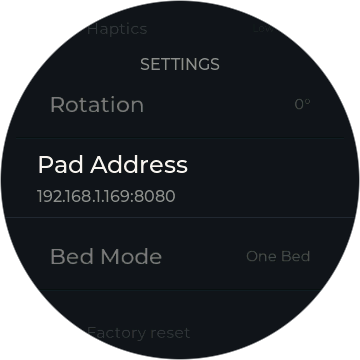
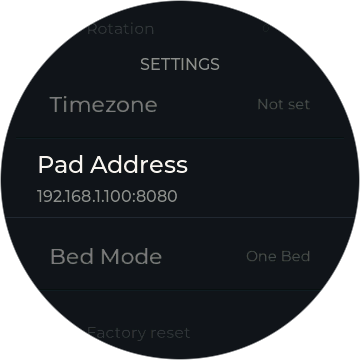
rename: simulator SoftAP name, regenerated portal screen, NAMING status
Claude-Session: https://claude.ai/code/session_01JfBkoxWEwmTAoTqgMFPhs1

diff --git a/simulator/main.c b/simulator/main.c
@@ -243,10 +243,10 @@ static void scenario_wifi_portal(void)
     app_state_t *st = sim_state_ptr();
     st->phase = PH_WIFI_PORTAL;
     // Same format as the real construction site (dial_wifi.c's
-    // "SomnusDial-%02X%02X", MAC-derived) -- kept as a literal here since the
+    // "Bedknob-%02X%02X", MAC-derived) -- kept as a literal here since the
     // simulator never links the real dial_net component (no ESP-IDF Wi-Fi
     // driver on the host), same reasoning as stubs.c's dial_net_ap_ssid().
-    snprintf(st->ap_ssid, sizeof(st->ap_ssid), "SomnusDial-A1B2");
+    snprintf(st->ap_ssid, sizeof(st->ap_ssid), "Bedknob-A1B2");
     ui_router_go(SCR_WIFI_PORTAL, NULL, LV_SCR_LOAD_ANIM_NONE);
     pump_ms(300);
     snapshot("wifi-portal");
@@ -331,7 +331,8 @@ static void scenario_dial_update(void)
 }
 
 // The Home face in RELATIVE scale. Deliberately a POSITIVE, OFF-GRID setpoint:
-// 300dc (30.0°C), which is level +2 (its anchor is 306dc/30.6°C) — so the
+// 300dc (30.0°C), which is level +3 (1.0°C per level, level 0 = 27.0°C,
+// commit 018d8f6) — so the
 // render proves the spliced '+' glyph draws AND that an off-grid device
 // value shows as the nearest level. Water below the setpoint keeps the
 // heating overlay + pill on screen, and the neutral notch/"LEVEL" suffix
@@ -344,7 +345,7 @@ static void scenario_dial_relative(void)
     st->ui_zone = ZONE_A;
     zone_state_t *a = &st->zones[ZONE_A];
     a->on = true;
-    a->temp_dc = 300;     // 30.0C, off-grid -> level +2
+    a->temp_dc = 300;     // 30.0C -> level +3
     a->actual_c = 26.0f;  // -> 79F, below setpoint: still warming
     st->generation++;     // direct field-sets don't bump it; make on_state re-run
     ui_router_go(SCR_DIAL, (void *)(uintptr_t)ZONE_A, LV_SCR_LOAD_ANIM_NONE);

diff --git a/simulator/stubs.c b/simulator/stubs.c
@@ -18,8 +18,16 @@
 #include "dial_power.h"
 #include "dial_display.h"
 #include "dial_wifi.h"
+#include "dial_time.h"
 #include "esp_wifi.h"
 #include "esp_app_desc.h"
+
+/* ---- dial_time ---------------------------------------------------------- */
+// Settings' Timezone row and the picker read these; the simulator has no
+// SNTP and no persisted zone, so it renders the honest "Not set" state.
+bool dial_time_get_iana_tz(char *out, size_t sz) { (void)out; (void)sz; return false; }
+bool dial_time_get_posix_tz(char *out, size_t sz) { (void)out; (void)sz; return false; }
+bool dial_time_set_iana_tz(const char *iana) { (void)iana; return true; }
 
 /* ---- dial_haptics ------------------------------------------------------ */
 
@@ -107,7 +115,7 @@ void dial_net_forget(void) {}
 void dial_net_request_setup(void) {}
 bool dial_net_setup_requested(void) { return false; }
 void dial_net_bringup(void) {}
-const char *dial_net_ap_ssid(void) { return "SomnusDial-A1B2"; }
+const char *dial_net_ap_ssid(void) { return "Bedknob-A1B2"; }
 void dial_net_on_event(dial_net_event_cb_t cb) { (void)cb; }
 
 /* ---- deterministic clock -------------------------------------------------

diff --git a/simulator/sim_state.c b/simulator/sim_state.c
@@ -90,6 +90,12 @@ void dial_state_set_side_picked(void)
     s_state.generation++;
 }
 
+void dial_state_set_tz_prompted(void)
+{
+    s_state.tz_prompted = true;
+    s_state.generation++;
+}
+
 void dial_state_set_units_c(bool units_c)
 {
     s_state.units_c = units_c;

diff --git a/docs/NAMING.md b/docs/NAMING.md
@@ -26,19 +26,24 @@ construction is not worth losing.
 
 | Was | Now | Status |
 |---|---|---|
-| Somnus Dial / the dial | Bedknob for Somnus | Name settled; on-screen strings, README, flasher copy and repo name **not yet changed** |
+| Somnus Dial / the dial | Bedknob for Somnus | **Copy surfaces done Sep 3** — root README, firmware READMEs, ARCHITECTURE.md, flasher page (title, H1, description, button, manifests' `name` field), SoftAP name `Bedknob-XXXX`, portal page title and heading. GitHub repo still `matthewclaude/somnus-waveshare-rotary-dial`; binary, tag and URL identifiers stay by design (see below). |
 | SomnusDialPreview | Bedknob for Mac | **Done Sep 2** — package, target, module, directories, app struct, Info.plist, build.sh, docs. Builds clean, 9/9 tests pass. GitHub repo still `matthewclaude/SomnusDialPreview`. |
 | SomnusWidget | Bedknob Mini | **Not started** |
 
 ## What is still outstanding
 
-1. **Firmware repo rename pass** — on-screen strings, root README, flasher page copy,
-   `PROJECT_VER` metadata, and the repo names `somnus-waveshare-rotary-dial` and
-   `somnus-dial-releases`. Do it **before 1.0.0**: the releases repo is public and the
-   flasher is live, so this gets more expensive once people have flashed boards and
-   bookmarked the page.
+1. **Firmware repo rename pass** — **done Sep 3 2026** for every copy surface: root
+   README, firmware READMEs, ARCHITECTURE.md, the flasher page (title, H1, description,
+   button, the manifests' `name` field), the SoftAP name (`Bedknob-XXXX`), and the
+   portal page's title and heading. **Deliberately not renamed, and staying that way:**
+   the binary names `somnus-dial.bin` / `somnus-dial-merged.bin`, the tag prefix
+   `somnus-v`, the CMake project name, and the releases repo URL — shipped dials resolve
+   updates by exactly these identifiers, so changing any of them would strand every
+   flashed board.
 2. **Bedknob Mini** — the whole rename, same shape as the Mac app's.
-3. **Two GitHub repo renames**, both manual and both the owner's to do.
+3. **Two GitHub repo renames** (`somnus-waveshare-rotary-dial`, `SomnusDialPreview`),
+   both manual and both the owner's to do. `somnus-dial-releases` stays: its URL is one
+   of the identifiers above.
 4. **The Claude Project** — docs, instructions, description and title ("Bedknob family")
    all updated Sep 2 2026. Only the summary's *filename*
    (`somnus-dial-project-summary.md`) still carries the old name; fold that into the
